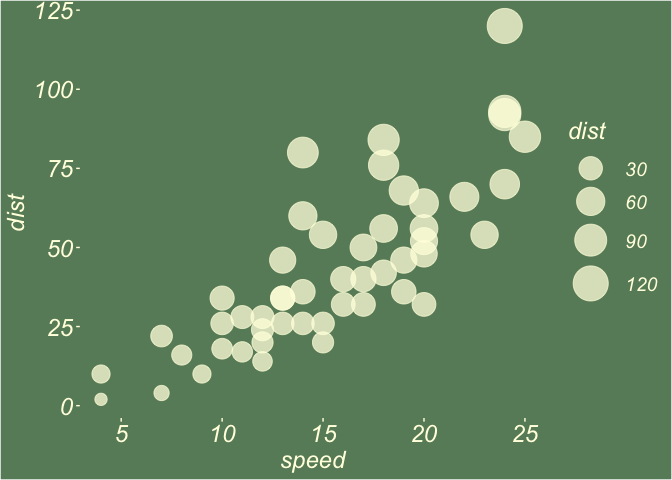
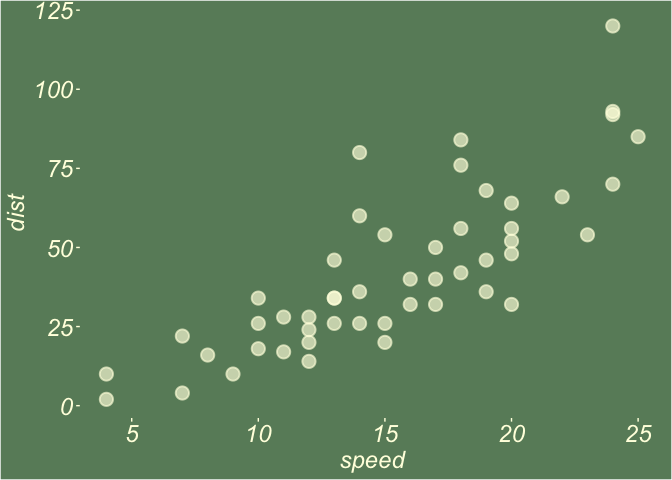
looking at another way - sprenger based

diff --git a/README.md b/README.md
@@ -185,6 +185,7 @@ geoms_chalk_on <- function(chalk_color = "lightyellow", color = NULL, fill = NUL
   if(is.null(color)){color <- chalk_color}
   if(is.null(fill)){fill <- chalk_color}
 
+  
   ggplot2::update_geom_defaults("point",   list(colour = color, size = 3.5,    alpha = .75))
   ggplot2::update_geom_defaults("segment", list(colour = color, size = 1.25,   alpha = .75))
   ggplot2::update_geom_defaults("rug",     list(colour = color, size = 1,      alpha = .75))
@@ -193,15 +194,20 @@ geoms_chalk_on <- function(chalk_color = "lightyellow", color = NULL, fill = NUL
   
 
   # above is pretty limited... think more generally...  
+  # the problem with this is that you might want at least as many defaults as base ggplot2.  
+  # for example fill colors are grey35, grey20 and white in base ggplot2.  
+  # These are pretty good defaults.. So we favor Torsten Sprenger's approach...
   # https://stackoverflow.com/questions/21174625/ggplot-how-to-set-default-color-for-all-geoms
   # params <- ls(pattern = '^geom_', env = as.environment('package:ggplot2'))
   # geoms <- gsub("geom_", "", params)
-  #
+  # 
   # lapply(geoms, update_geom_defaults, list(colour = color))
   # lapply(geoms, update_geom_defaults, list(fill = fill))
 
 }
 ```
+
+### first attempt - limited
 
 ``` r
 geoms_chalk_off <- function(){
@@ -213,6 +219,159 @@ geoms_chalk_off <- function(){
   ggplot2::update_geom_defaults("label",     default_aes_label)
 
 }
+```
+
+### Second attempt
+
+``` r
+library(ggplot2)
+library(purrr)
+
+geom_aes_defaults <- function() {
+  geom_names <- apropos("^Geom", ignore.case = FALSE)
+  geoms <- mget(geom_names, env = asNamespace("ggplot2"))
+  map(geoms, ~ .$default_aes)
+}
+
+# geom_aes_defaults()
+cache_geoms_default_aes <- geom_aes_defaults()
+# str(cache_geoms_default_aes)
+# names(cache_geoms_default_aes)
+```
+
+``` r
+
+geoms_chalk_off <- function(){
+  
+i = 1  
+  
+Geom$default_aes               <- cache_geoms_default_aes[[i]]; i <- i+1
+GeomAbline$default_aes         <- cache_geoms_default_aes[[i]]; i <- i+1
+GeomAnnotationMap$default_aes  <- cache_geoms_default_aes[[i]]; i <- i+1
+GeomArea$default_aes           <- cache_geoms_default_aes[[i]]; i <- i+1
+GeomBar$default_aes            <- cache_geoms_default_aes[[i]]; i <- i+1
+GeomBlank$default_aes          <- cache_geoms_default_aes[[i]]; i <- i+1
+GeomBoxplot$default_aes        <- cache_geoms_default_aes[[i]]; i <- i+1
+GeomCol$default_aes            <- cache_geoms_default_aes[[i]]; i <- i+1
+GeomContour$default_aes        <- cache_geoms_default_aes[[i]]; i <- i+1
+GeomContourFilled$default_aes  <- cache_geoms_default_aes[[i]]; i <- i+1
+GeomCrossbar$default_aes       <- cache_geoms_default_aes[[i]]; i <- i+1
+GeomCurve$default_aes          <- cache_geoms_default_aes[[i]]; i <- i+1
+GeomCustomAnn$default_aes      <- cache_geoms_default_aes[[i]]; i <- i+1
+GeomDensity$default_aes        <- cache_geoms_default_aes[[i]]; i <- i+1
+GeomDensity2d$default_aes      <- cache_geoms_default_aes[[i]]; i <- i+1
+GeomDensity2dFilled$default_aes<- cache_geoms_default_aes[[i]]; i <- i+1
+GeomDotplot$default_aes        <- cache_geoms_default_aes[[i]]; i <- i+1
+GeomErrorbar$default_aes       <- cache_geoms_default_aes[[i]]; i <- i+1
+GeomErrorbarh$default_aes      <- cache_geoms_default_aes[[i]]; i <- i+1
+GeomFunction$default_aes       <- cache_geoms_default_aes[[i]]; i <- i+1
+GeomHex$default_aes            <- cache_geoms_default_aes[[i]]; i <- i+1
+GeomHline$default_aes          <- cache_geoms_default_aes[[i]]; i <- i+1
+GeomLabel$default_aes          <- cache_geoms_default_aes[[i]]; i <- i+1
+GeomLine$default_aes           <- cache_geoms_default_aes[[i]]; i <- i+1
+GeomLinerange$default_aes      <- cache_geoms_default_aes[[i]]; i <- i+1
+GeomLogticks$default_aes       <- cache_geoms_default_aes[[i]]; i <- i+1
+GeomMap$default_aes            <- cache_geoms_default_aes[[i]]; i <- i+1
+GeomPath$default_aes           <- cache_geoms_default_aes[[i]]; i <- i+1
+GeomPoint$default_aes          <- cache_geoms_default_aes[[i]]; i <- i+1
+GeomPointrange$default_aes     <- cache_geoms_default_aes[[i]]; i <- i+1
+GeomPolygon$default_aes        <- cache_geoms_default_aes[[i]]; i <- i+1
+GeomQuantile$default_aes       <- cache_geoms_default_aes[[i]]; i <- i+1
+GeomRaster$default_aes         <- cache_geoms_default_aes[[i]]; i <- i+1
+GeomRasterAnn$default_aes      <- cache_geoms_default_aes[[i]]; i <- i+1
+GeomRect$default_aes           <- cache_geoms_default_aes[[i]]; i <- i+1
+GeomRibbon$default_aes         <- cache_geoms_default_aes[[i]]; i <- i+1
+GeomRug$default_aes            <- cache_geoms_default_aes[[i]]; i <- i+1
+GeomSegment$default_aes        <- cache_geoms_default_aes[[i]]; i <- i+1
+GeomSf$default_aes             <- cache_geoms_default_aes[[i]]; i <- i+1
+GeomSmooth$default_aes         <- cache_geoms_default_aes[[i]]; i <- i+1
+GeomSpoke$default_aes          <- cache_geoms_default_aes[[i]]; i <- i+1
+GeomStep$default_aes           <- cache_geoms_default_aes[[i]]; i <- i+1
+GeomText$default_aes           <- cache_geoms_default_aes[[i]]; i <- i+1
+GeomTile$default_aes           <- cache_geoms_default_aes[[i]]; i <- i+1
+GeomViolin$default_aes         <- cache_geoms_default_aes[[i]]; i <- i+1
+GeomVline$default_aes          <- cache_geoms_default_aes[[i]]; i <- i+1
+
+  
+  
+  
+} 
+```
+
+``` r
+geoms_chalk_off()
+```
+
+# this is dev version of update\_geom\_defaults
+
+``` r
+replace_geom_aes_defaults <- function(name, old_aes, new_aes) {
+  
+  matching_geoms <- 
+    map(geom_aes_defaults(), name) %>%
+      compact() %>%
+      keep(~ !is.na(.) & . == old_aes)
+  
+  geoms <- gsub("^Geom(.*)", "\\1", names(matching_geoms))
+  
+  walk(geoms, update_geom_defaults, setNames(list(new_aes), name))
+  
+}
+
+geoms_chalk_on <- function(chalk_color = "lightyellow",
+                           board_color = "darkseagreen4",
+                           new_black = chalk_color, 
+                           new_grey20 = chalk_color, 
+                           new_grey35 = chalk_color,
+                           new_white = board_color,
+                           new_linewidth0.5 = 1, 
+                           new_linewidth0.1 = .3,
+                           new_alpha = .65, 
+                           new_linetype = 1,
+                           new_size1.5 = 4,
+                           new_size0.5 = 1.25,
+                           new_stroke0.5 = 1){
+  
+  geoms_chalk_off()
+
+# replace_geom_aes_defaults("colour", "black", new_black)
+# replace_geom_aes_defaults("fill", "black", new_black)
+
+# replace_geom_aes_defaults("colour", "white", new_white)
+# replace_geom_aes_defaults("fill", "white", new_white)
+
+# replace_geom_aes_defaults("colour", "grey20", new_grey20)
+# replace_geom_aes_defaults("fill", "grey20", new_grey20)
+# 
+# replace_geom_aes_defaults("colour", "grey35", new_grey35)
+# replace_geom_aes_defaults("fill", "grey35", new_grey35)
+
+replace_geom_aes_defaults("colour", "black", ggplot2::alpha(new_black, new_alpha))
+replace_geom_aes_defaults("fill", "black", ggplot2::alpha(new_black, new_alpha))
+
+replace_geom_aes_defaults("colour", "white", ggplot2::alpha(new_white, new_alpha))
+replace_geom_aes_defaults("fill", "white", ggplot2::alpha(new_white, new_alpha))
+
+replace_geom_aes_defaults("colour", "grey20", ggplot2::alpha(new_grey20, new_alpha))
+replace_geom_aes_defaults("fill", "grey20", ggplot2::alpha(new_grey20, new_alpha))
+
+replace_geom_aes_defaults("colour", "grey35", ggplot2::alpha(new_grey35, new_alpha))
+replace_geom_aes_defaults("fill", "grey35", ggplot2::alpha(new_grey35, new_alpha))
+
+replace_geom_aes_defaults("linewidth", 0.5, new_linewidth0.5)
+replace_geom_aes_defaults("linewidth", 0.1, new_linewidth0.1)
+
+replace_geom_aes_defaults("alpha", 1, new_alpha)
+
+replace_geom_aes_defaults("linetype", 1, new_linetype)
+replace_geom_aes_defaults("size", 1.5, new_size1.5)
+replace_geom_aes_defaults("size", 0.5, new_size0.5)
+replace_geom_aes_defaults("stroke", 0.5, new_stroke0.5)
+
+
+}
+
+geoms_chalk_on()
 ```
 
 **Another big revision is to work on generalizing this. I know I’ve just
@@ -227,7 +386,7 @@ geoms_chalk_on()
 last_plot()
 ```
 
-<img src="man/figures/README-unnamed-chunk-6-1.png" width="100%" />
+<img src="man/figures/README-unnamed-chunk-10-1.png" width="100%" />
 
 Very nice\! The points match the look and feel of the theme a lot
 better. Okay, and let’s check that we can turn the new defaults back
@@ -239,7 +398,7 @@ geoms_chalk_off()
 last_plot() 
 ```
 
-<img src="man/figures/README-unnamed-chunk-7-1.png" width="100%" />
+<img src="man/figures/README-unnamed-chunk-11-1.png" width="100%" />
 
 Great, it’s working\!
 
@@ -269,7 +428,7 @@ last_plot() +
   ggxmean:::geom_lm_residuals()
 ```
 
-<img src="man/figures/README-unnamed-chunk-8-1.png" width="100%" />
+<img src="man/figures/README-unnamed-chunk-12-1.png" width="100%" />
 
 Further coordination can be done when it comes to scales:
 
@@ -289,7 +448,7 @@ ggplot(data = cars) +
   scale_size_chalkboard()
 ```
 
-<img src="man/figures/README-unnamed-chunk-10-1.png" width="100%" />
+<img src="man/figures/README-unnamed-chunk-14-1.png" width="100%" />
 
 Color and fill scale are probably of greater interest, I know. Something
 to come back to.
